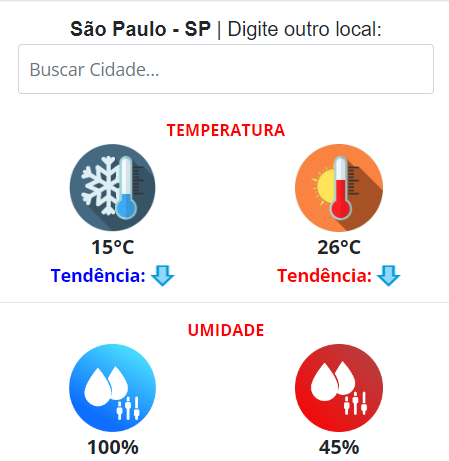
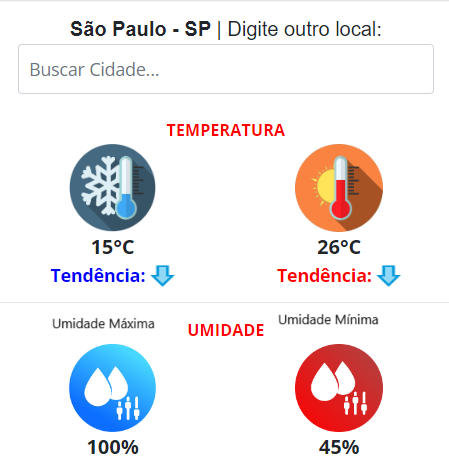
Imagens 2

Changed region(s): [[0.6236, 0.6681, 0.8419, 0.7289], [0.1247, 0.6681, 0.343, 0.7289]]

diff --git a/avaliacao.html b/avaliacao.html
@@ -191,7 +191,12 @@
                             <p>O botão de "Voltar ao topo" fica localizado atrás do botão de reCAPTCHA, induzindo o usuário ao erro tentar voltar 
                                 ao topo da página
                             </p>
-                            <img src="/assets/images/img2.png" height="100"/><img src="/assets/images/img2,5.png" height="100"/>
+                            
+                            <p>Com sobreposição</p>
+                            <ul><img src="/assets/images/img2.png" height="100"/></ul>
+                            <p>Sem sobreposição</p>
+                            <ul><img src="/assets/images/img2,5.png" height="100"/></ul>
+                            
 
                             <li><strong>Mapa interativo em mobile</strong></li>
                             <p>
@@ -200,8 +205,23 @@
                             </p>
                             <img src="/assets/images/img3.png" height="200" width="110"/>
 
-                            <li><strong>Ícones </strong></li>
-                            <li><strong></strong></li></ol>
+                            <li><strong>Ícones</strong></li>
+                            <p>
+                                Os ícones de temperatura mínima e máxima seguem o padrão de cores (vermelho para e azul para mínima), mas os ícones 
+                                de umidade possuem as cores invertidas, o que pode confundir o usuário na leitua dos dados, o induzindo ao erro. Além 
+                                dos outros ícones já citados, o ícone de radiação solar demonstra a unidade de medida de forma não convencional, ao 
+                                invés de mostrar níveis de radiação, como: alto, baixo ou moderado, o site mostra sendo kJ/m²(quilo joule por metro 
+                                quadrado), o usuário convencional não possui o conhecimento, terá problemas em saber se o nível de radiação solar está 
+                                alto ou não.
+                            </p>
+                            <p>
+                                Umidade
+                            </p>
+                            <ul><img src="/assets/images/img4.png" height="175"/></ul>
+                            <p>
+                                Radiação Solar e Sensação Térmica
+                            </p>
+                            <ul><img src="/assets/images/img5.png" height="50"/> </ul>
                     </div>
                 </div>
             </div>
